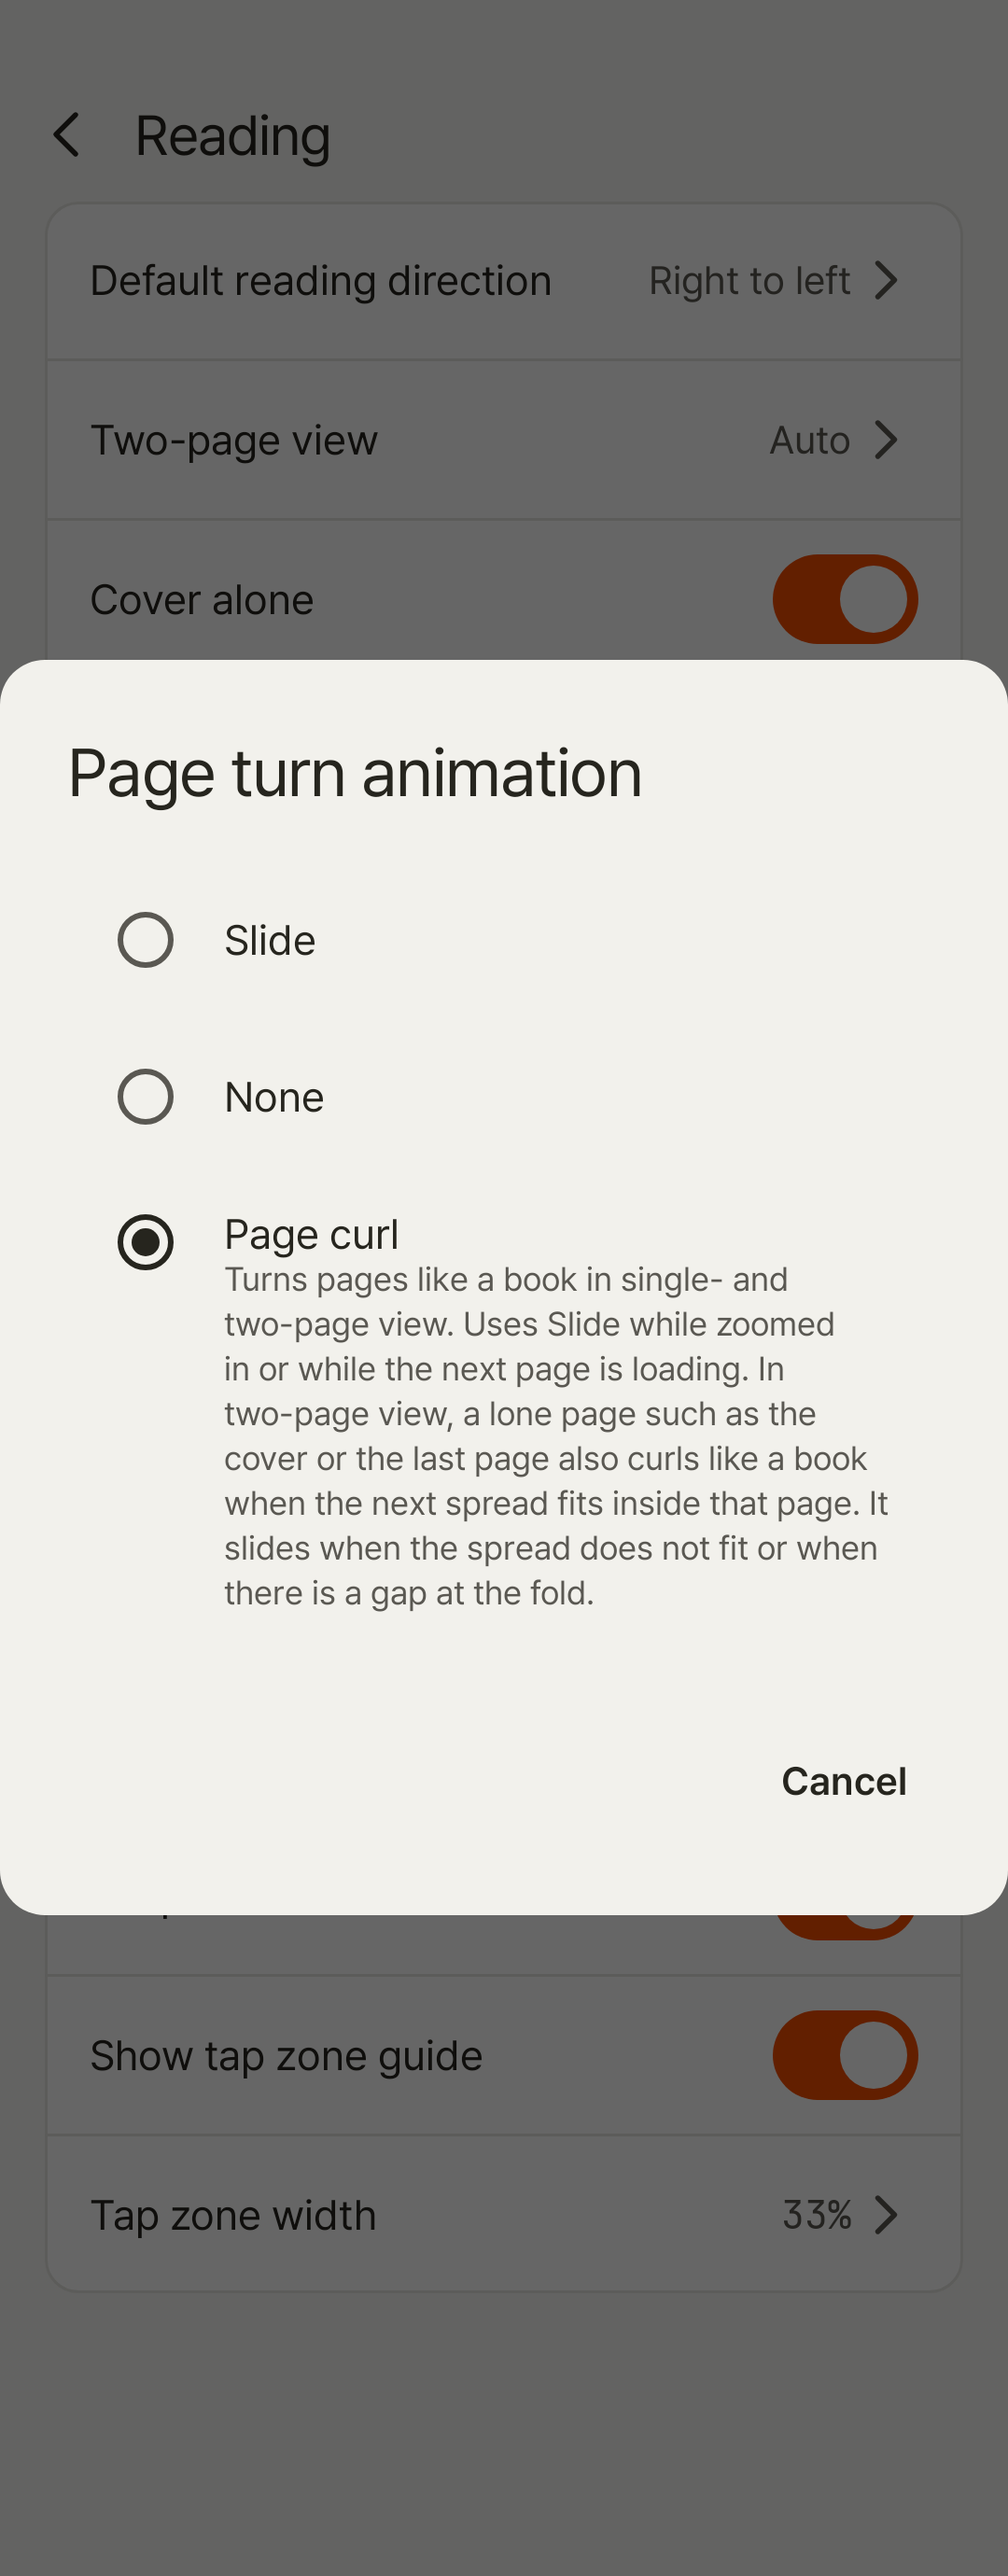
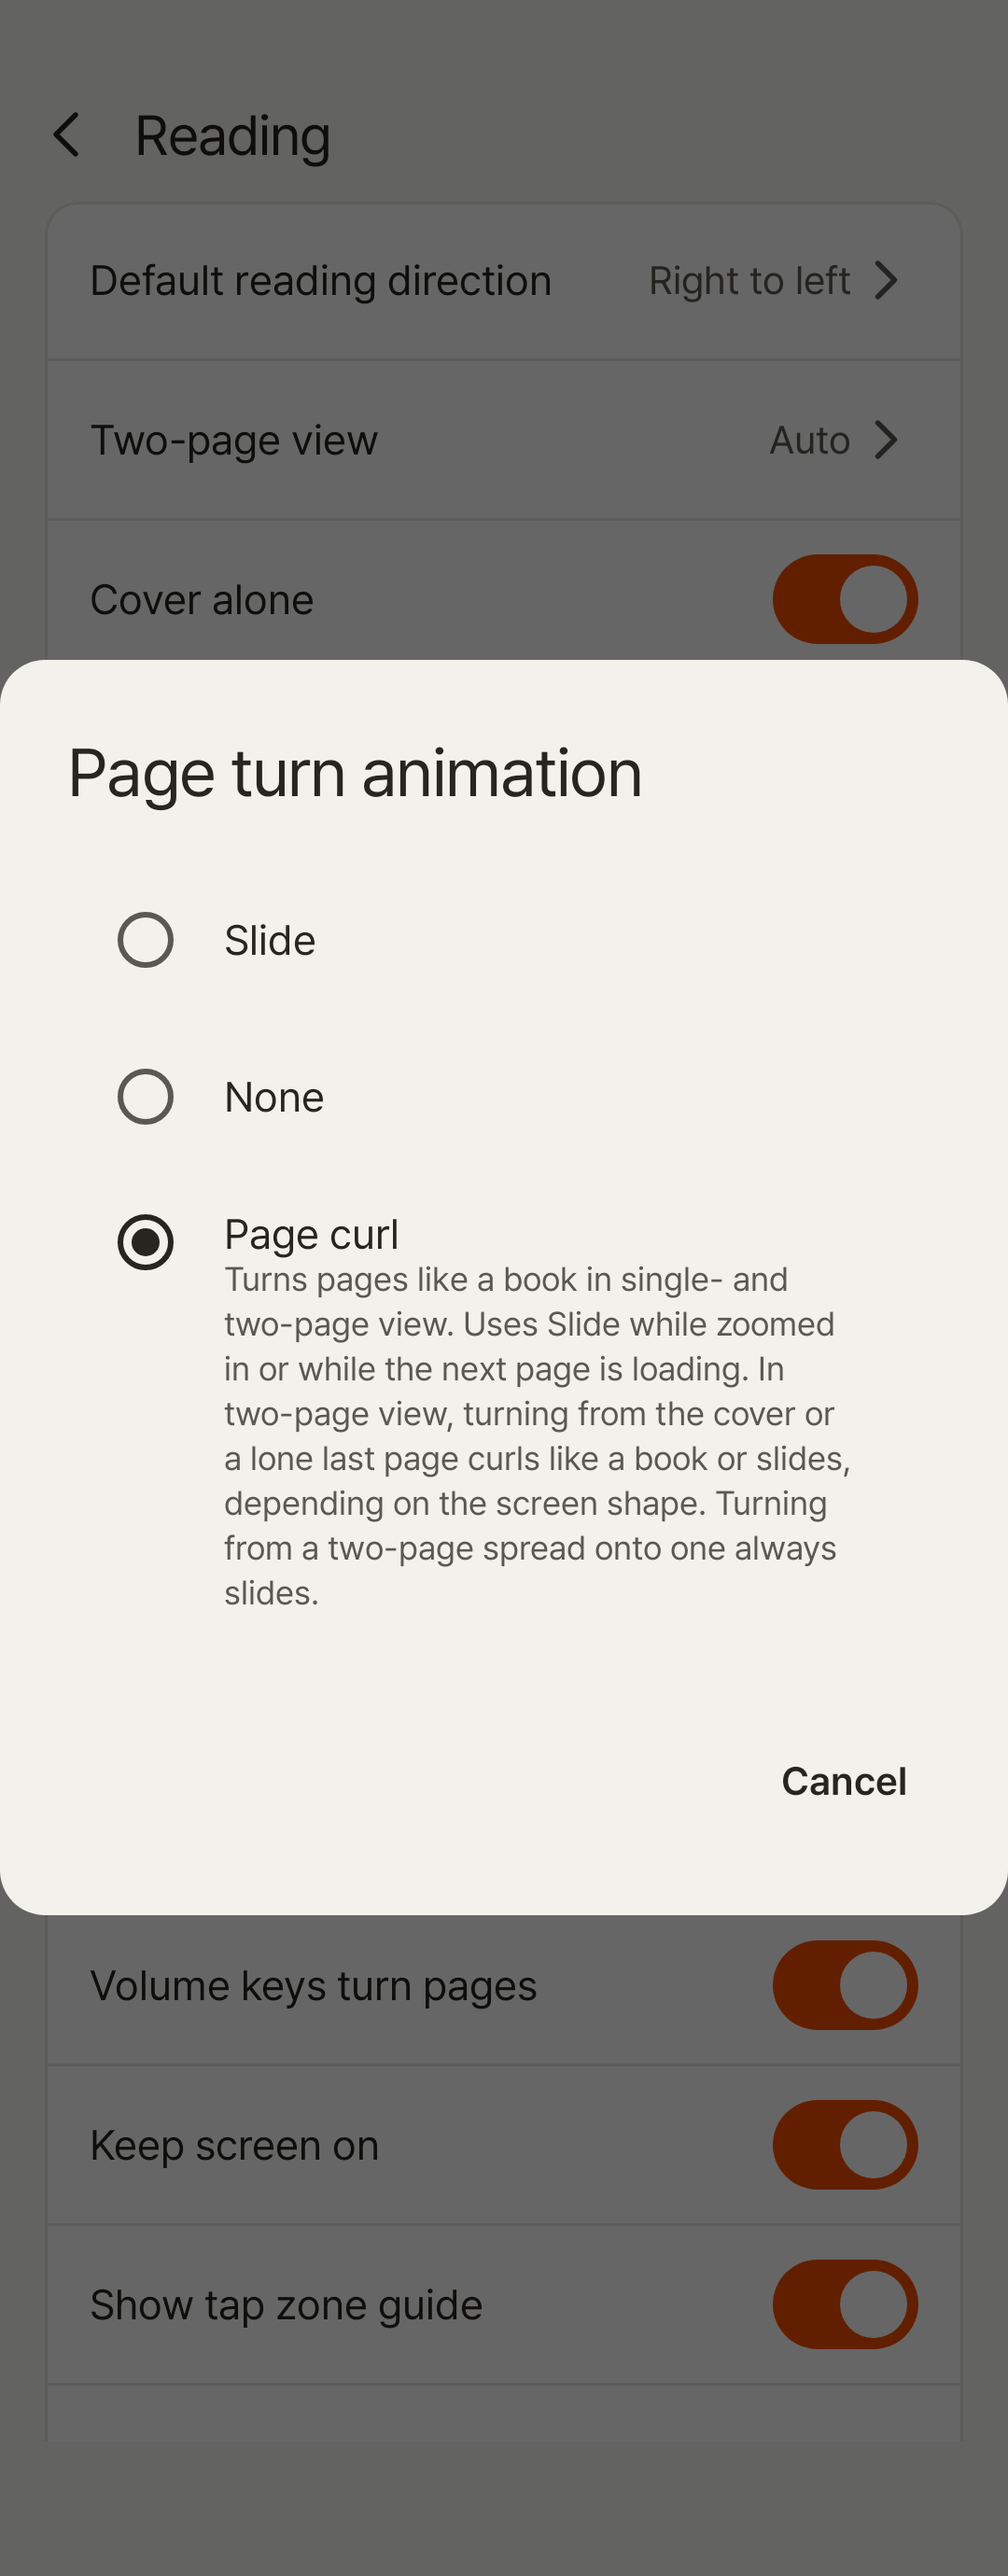
test(settings): record the curl description at font scale 2.0 in the dialog
The choice panel is a Dialog with its own window, so the LocalDensity
override never reached it: the description block stayed at 1.0 and was
pixel-identical to the normal capture, leaving wrapping unchecked. Set the
font scale on the resources before composing instead, and re-record the
settings captures with the final #181 wording.

diff --git a/app/src/test/java/org/parkjw/apps/pdfbook/screenshot/PageCurlScreenshotsTest.kt b/app/src/test/java/org/parkjw/apps/pdfbook/screenshot/PageCurlScreenshotsTest.kt
@@ -3,13 +3,10 @@ package org.parkjw.apps.pdfbook.screenshot
 import androidx.compose.foundation.background
 import androidx.compose.foundation.layout.Box
 import androidx.compose.foundation.layout.fillMaxSize
-import androidx.compose.runtime.CompositionLocalProvider
 import androidx.compose.ui.Modifier
 import androidx.compose.ui.graphics.Color
-import androidx.compose.ui.platform.LocalDensity
 import androidx.compose.ui.test.junit4.v2.createComposeRule
 import androidx.compose.ui.test.onRoot
-import androidx.compose.ui.unit.Density
 import androidx.test.ext.junit.runners.AndroidJUnit4
 import com.github.takahirom.roborazzi.captureRoboImage
 import kotlinx.coroutines.runBlocking
@@ -30,6 +27,7 @@ import org.parkjw.apps.pdfbook.settings.SettingsSubScreen
 import org.parkjw.apps.pdfbook.settings.ThemeMode
 import org.parkjw.apps.pdfbook.ui.theme.ReaderBackground
 import org.parkjw.apps.pdfbook.ui.theme.ReaderListCurrent
+import org.robolectric.RuntimeEnvironment
 import org.robolectric.annotation.Config
 import org.robolectric.annotation.GraphicsMode
 
@@ -115,23 +113,23 @@ class PageCurlScreenshotsTest {
     @Config(qualifiers = FOLDED_QUALIFIERS)
     fun settingsAnimationCurlFontScale2() {
         // The four-sentence description must still wrap cleanly at 360dp with font scale 2.0.
+        // The font scale comes from the resources, not a LocalDensity override: the choice
+        // panel is a Dialog with its own window, which ignored the composition override and
+        // rendered the description at 1.0 (pixel-identical block, so wrapping was unchecked).
+        RuntimeEnvironment.setFontScale(2f)
         composeRule.setContent {
             ScreenshotTheme(dark = false) {
-                val base = LocalDensity.current
-                CompositionLocalProvider(
-                    LocalDensity provides Density(density = base.density, fontScale = 2f),
-                ) {
-                    SettingsScreen(
-                        settings = AppSettings(pageTurnAnimation = PageTurnAnimation.Curl),
-                        onSettingsChange = {},
-                        versionName = "0.5.0",
-                        initialSubScreen = SettingsSubScreen.Reading,
-                        initiallyShowAnimationChoice = true,
-                        modifier = Modifier.fillMaxSize(),
-                    )
-                }
+                SettingsScreen(
+                    settings = AppSettings(pageTurnAnimation = PageTurnAnimation.Curl),
+                    onSettingsChange = {},
+                    versionName = "0.5.0",
+                    initialSubScreen = SettingsSubScreen.Reading,
+                    initiallyShowAnimationChoice = true,
+                    modifier = Modifier.fillMaxSize(),
+                )
             }
         }
+        composeRule.waitForIdle()
         composeRule.onRoot().captureRoboImage("settings-animation-curl-light-folded-font2.png")
     }
 
